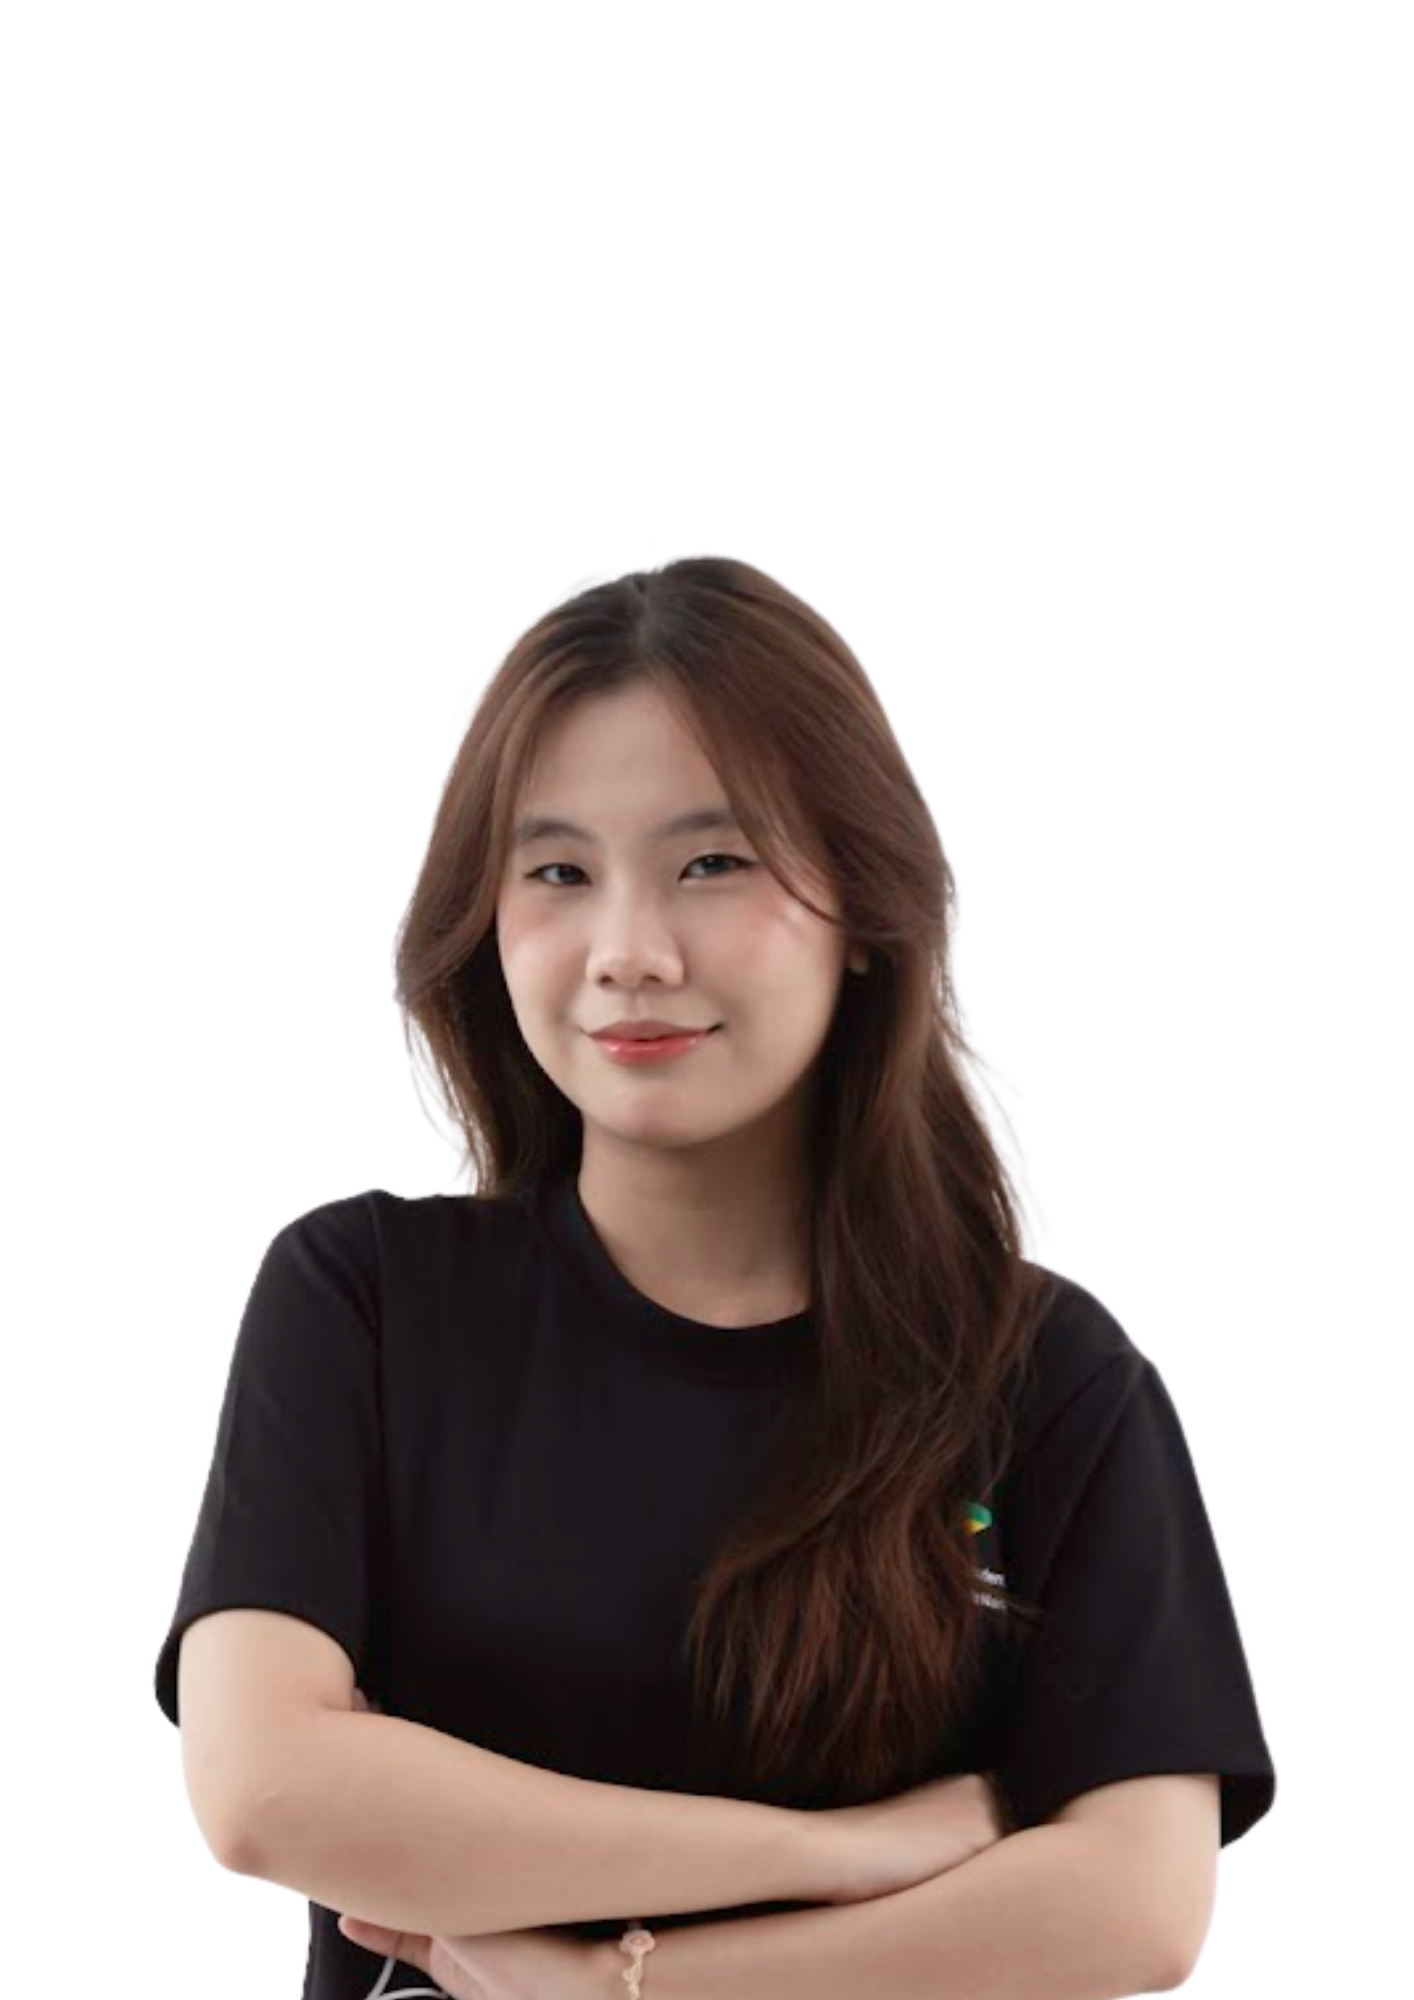
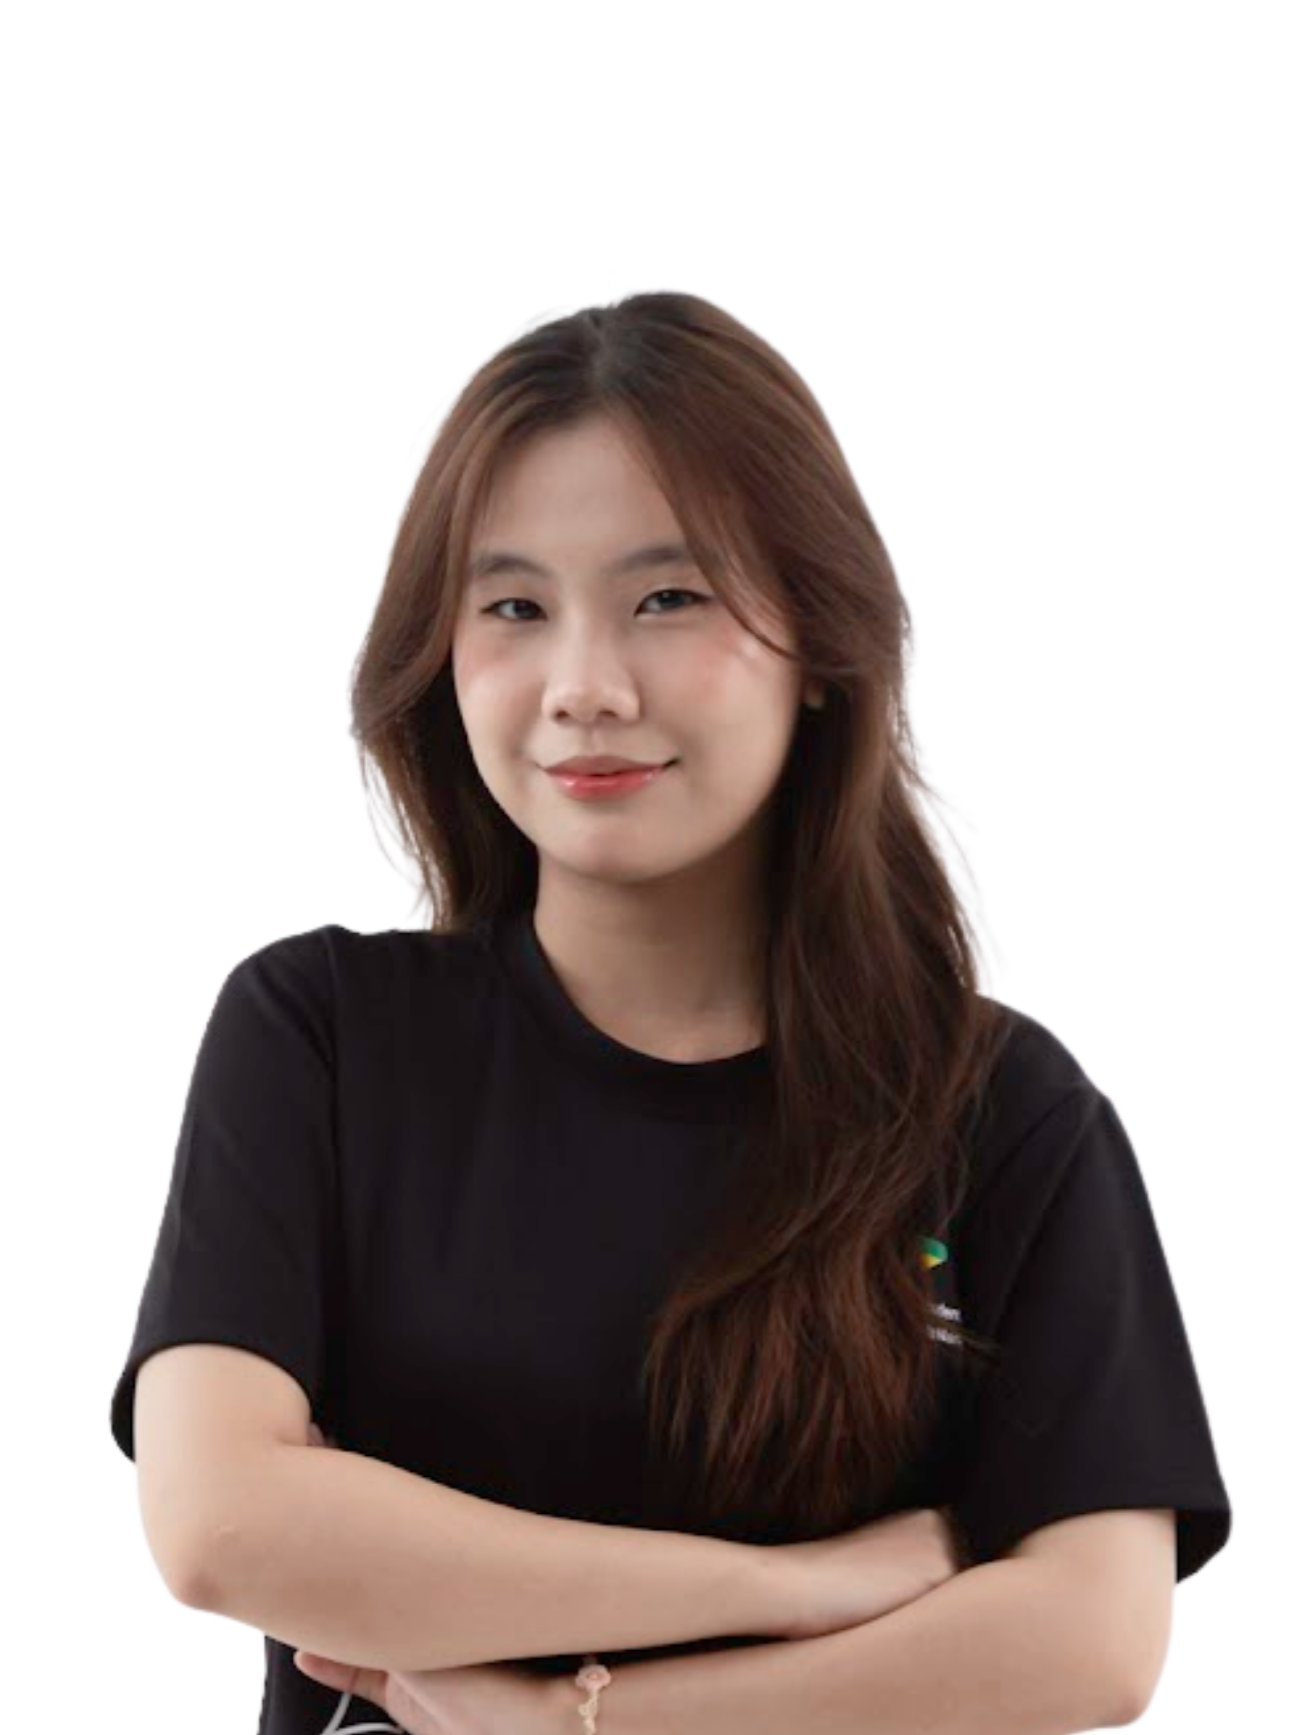
feat: Add Team section component with member profiles and associated image assets.

Changed region(s): [[0.0613, 0.1556, 0.9495, 1.0]]

diff --git a/Landing_page/client/components/sections/Team.tsx b/Landing_page/client/components/sections/Team.tsx
@@ -376,7 +376,7 @@ function InteractiveTeamSection({
               <img
                 src={activeMember.image}
                 alt={activeMember.name}
-                className="relative z-10 w-auto h-full object-contain drop-shadow-2xl"
+                className="relative z-10 h-full max-w-[90%] object-contain object-bottom drop-shadow-2xl"
                 style={{ transform: 'none' }}
               />
             </motion.div>
